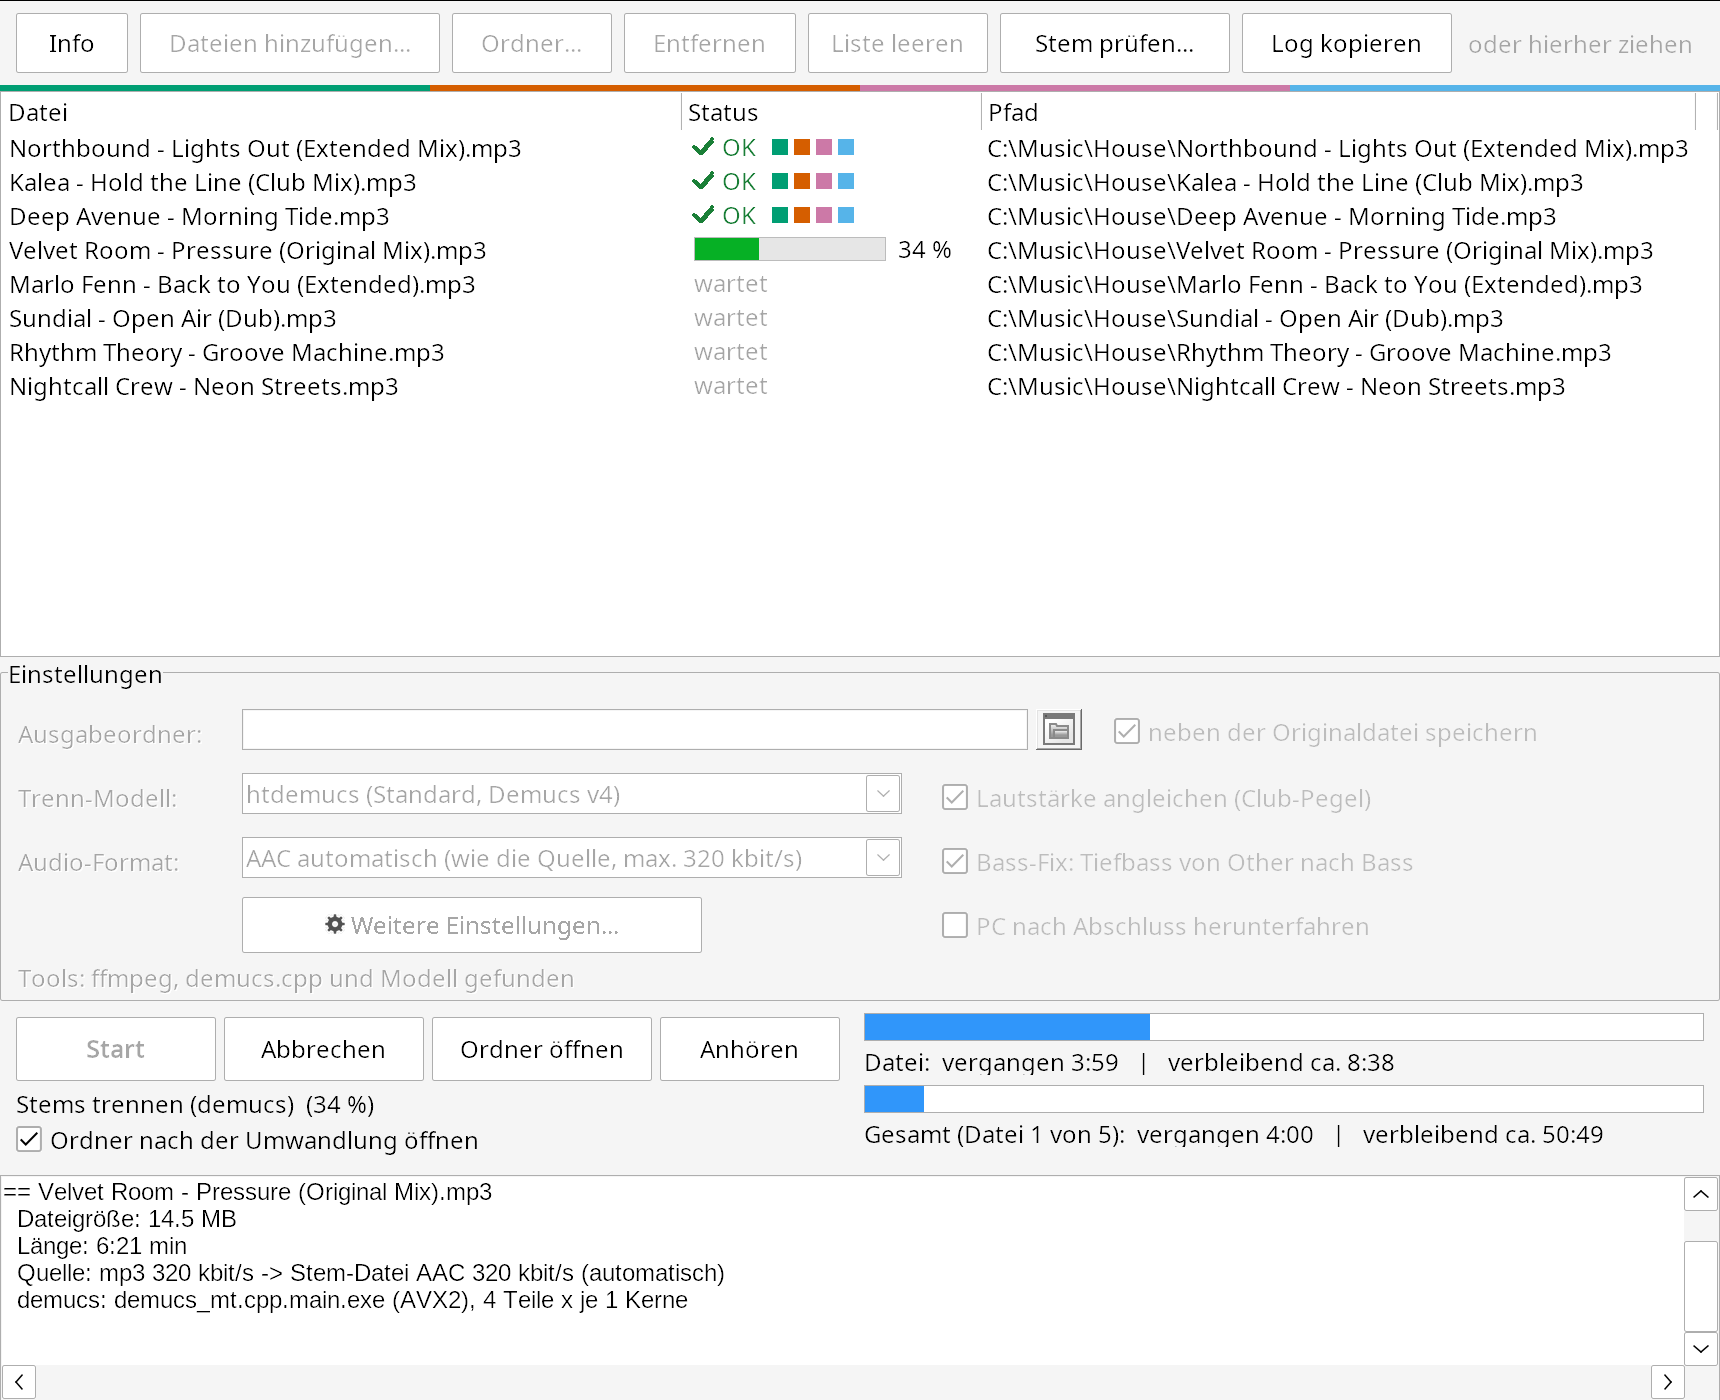
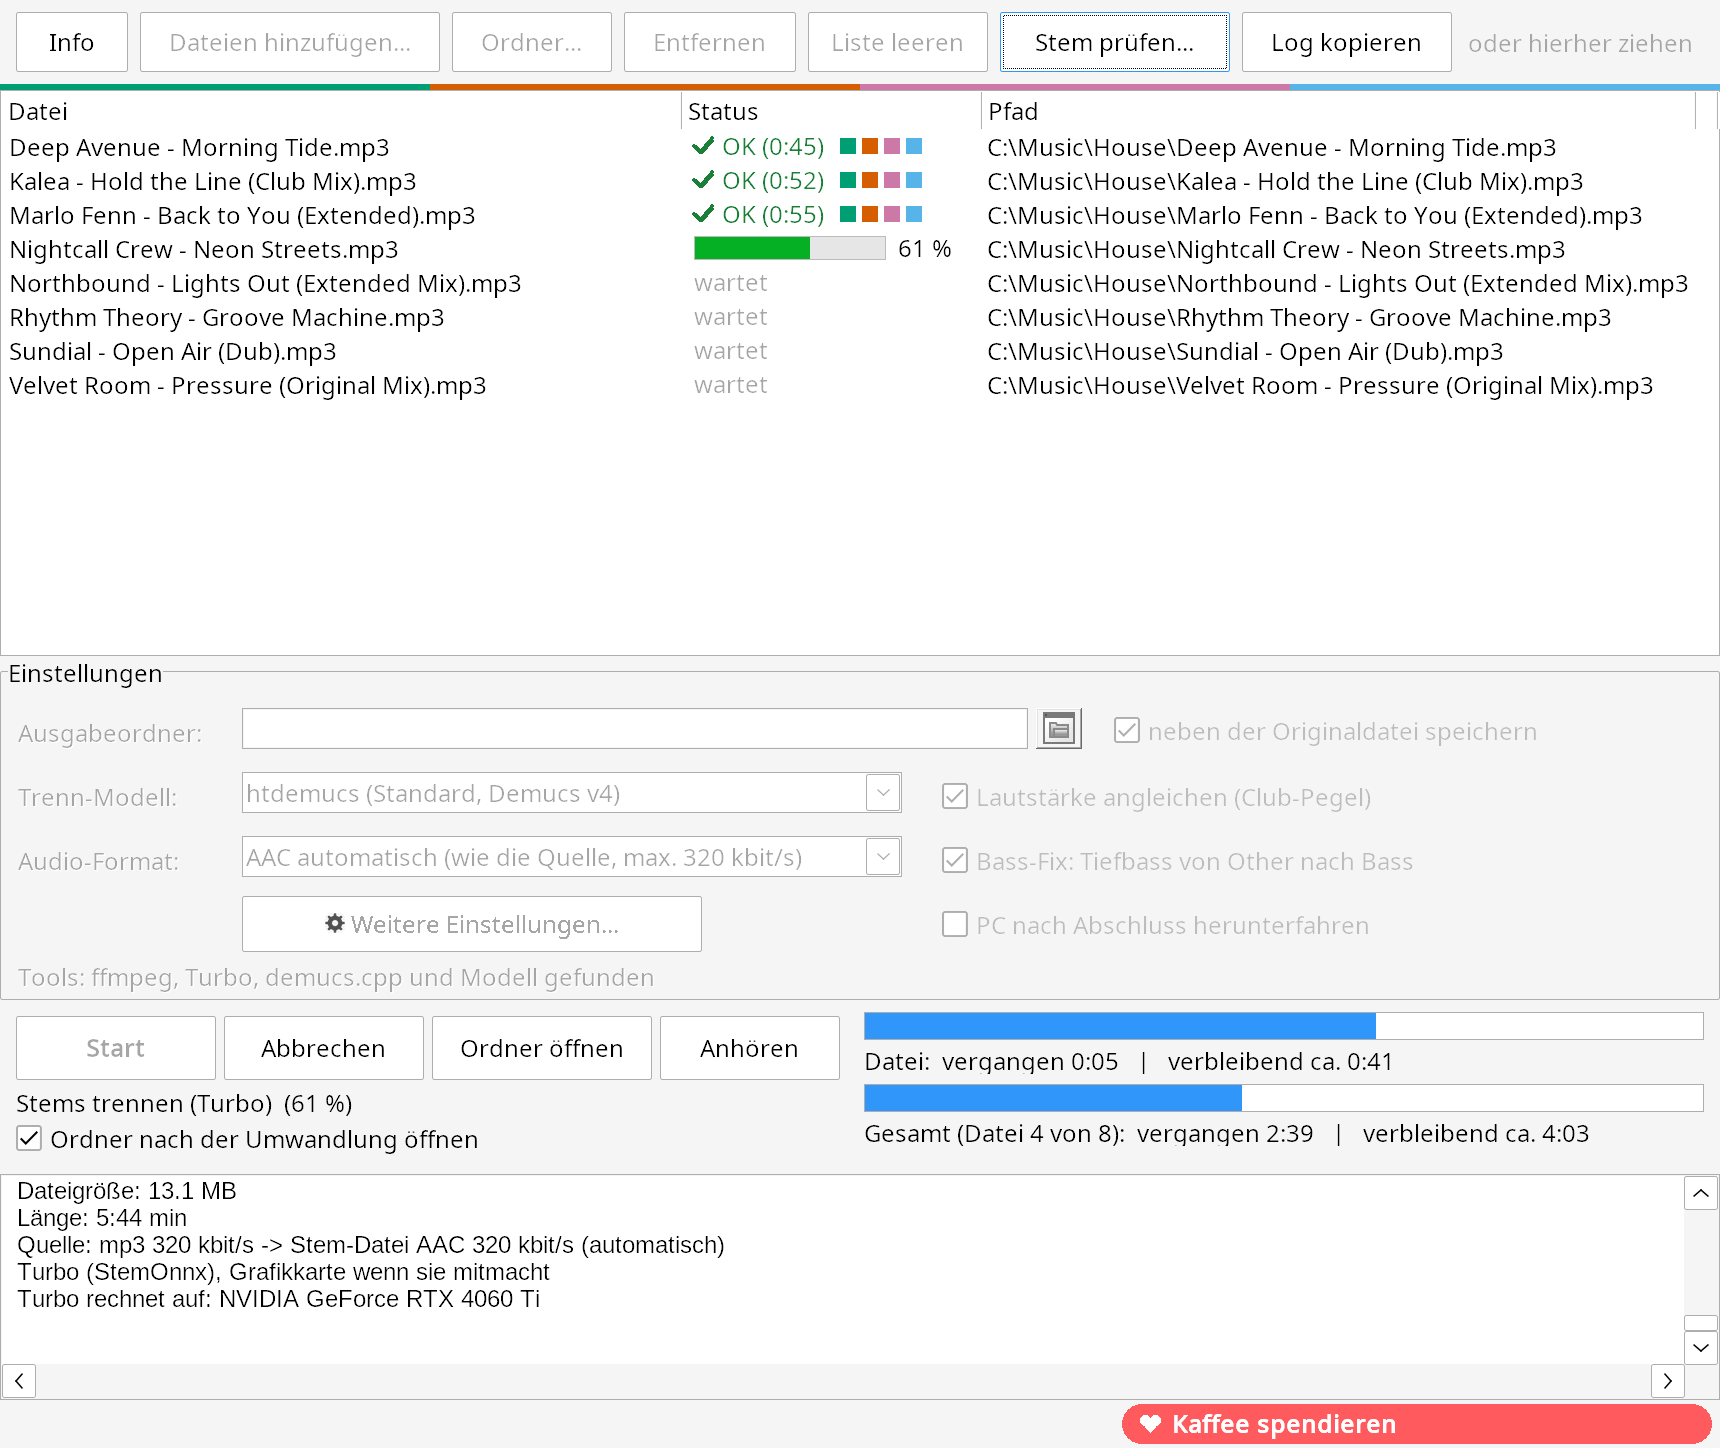
Projektseite: Screenshots des Hauptfensters auf 2.0 mit Turbo erneuert

diff --git a/site/de/index.html b/site/de/index.html
@@ -90,7 +90,7 @@
     </ul>
     <figure class="shot light hero-shot">
       <div class="bar"><img src="../img/icon-32.png" alt=""><span>Elospeed StemMaker 2.0 - Traktor Stems (*.stem.mp4) aus Audiodateien</span><i class="min"></i><i class="max"></i><i class="cls"></i></div>
-      <img src="../img/stemmaker-de.png" width="860" height="700" alt="StemMaker-Hauptfenster mit einer Liste von MP3-Dateien, die in Traktor-Stem-Dateien umgewandelt werden">
+      <img src="../img/stemmaker-de.png" width="860" height="724" alt="StemMaker-Hauptfenster mit einer Liste von MP3-Dateien, die in Traktor-Stem-Dateien umgewandelt werden">
     </figure>
   </div>
 </section>

diff --git a/site/index.html b/site/index.html
@@ -89,7 +89,7 @@
     </ul>
     <figure class="shot light hero-shot">
       <div class="bar"><img src="img/icon-32.png" alt=""><span>Elospeed StemMaker 2.0 - Traktor stems (*.stem.mp4) from audio files</span><i class="min"></i><i class="max"></i><i class="cls"></i></div>
-      <img src="img/stemmaker-en.png" width="860" height="700" alt="StemMaker main window with a list of MP3 files being converted into Traktor stem files">
+      <img src="img/stemmaker-en.png" width="860" height="724" alt="StemMaker main window with a list of MP3 files being converted into Traktor stem files">
     </figure>
   </div>
 </section>
